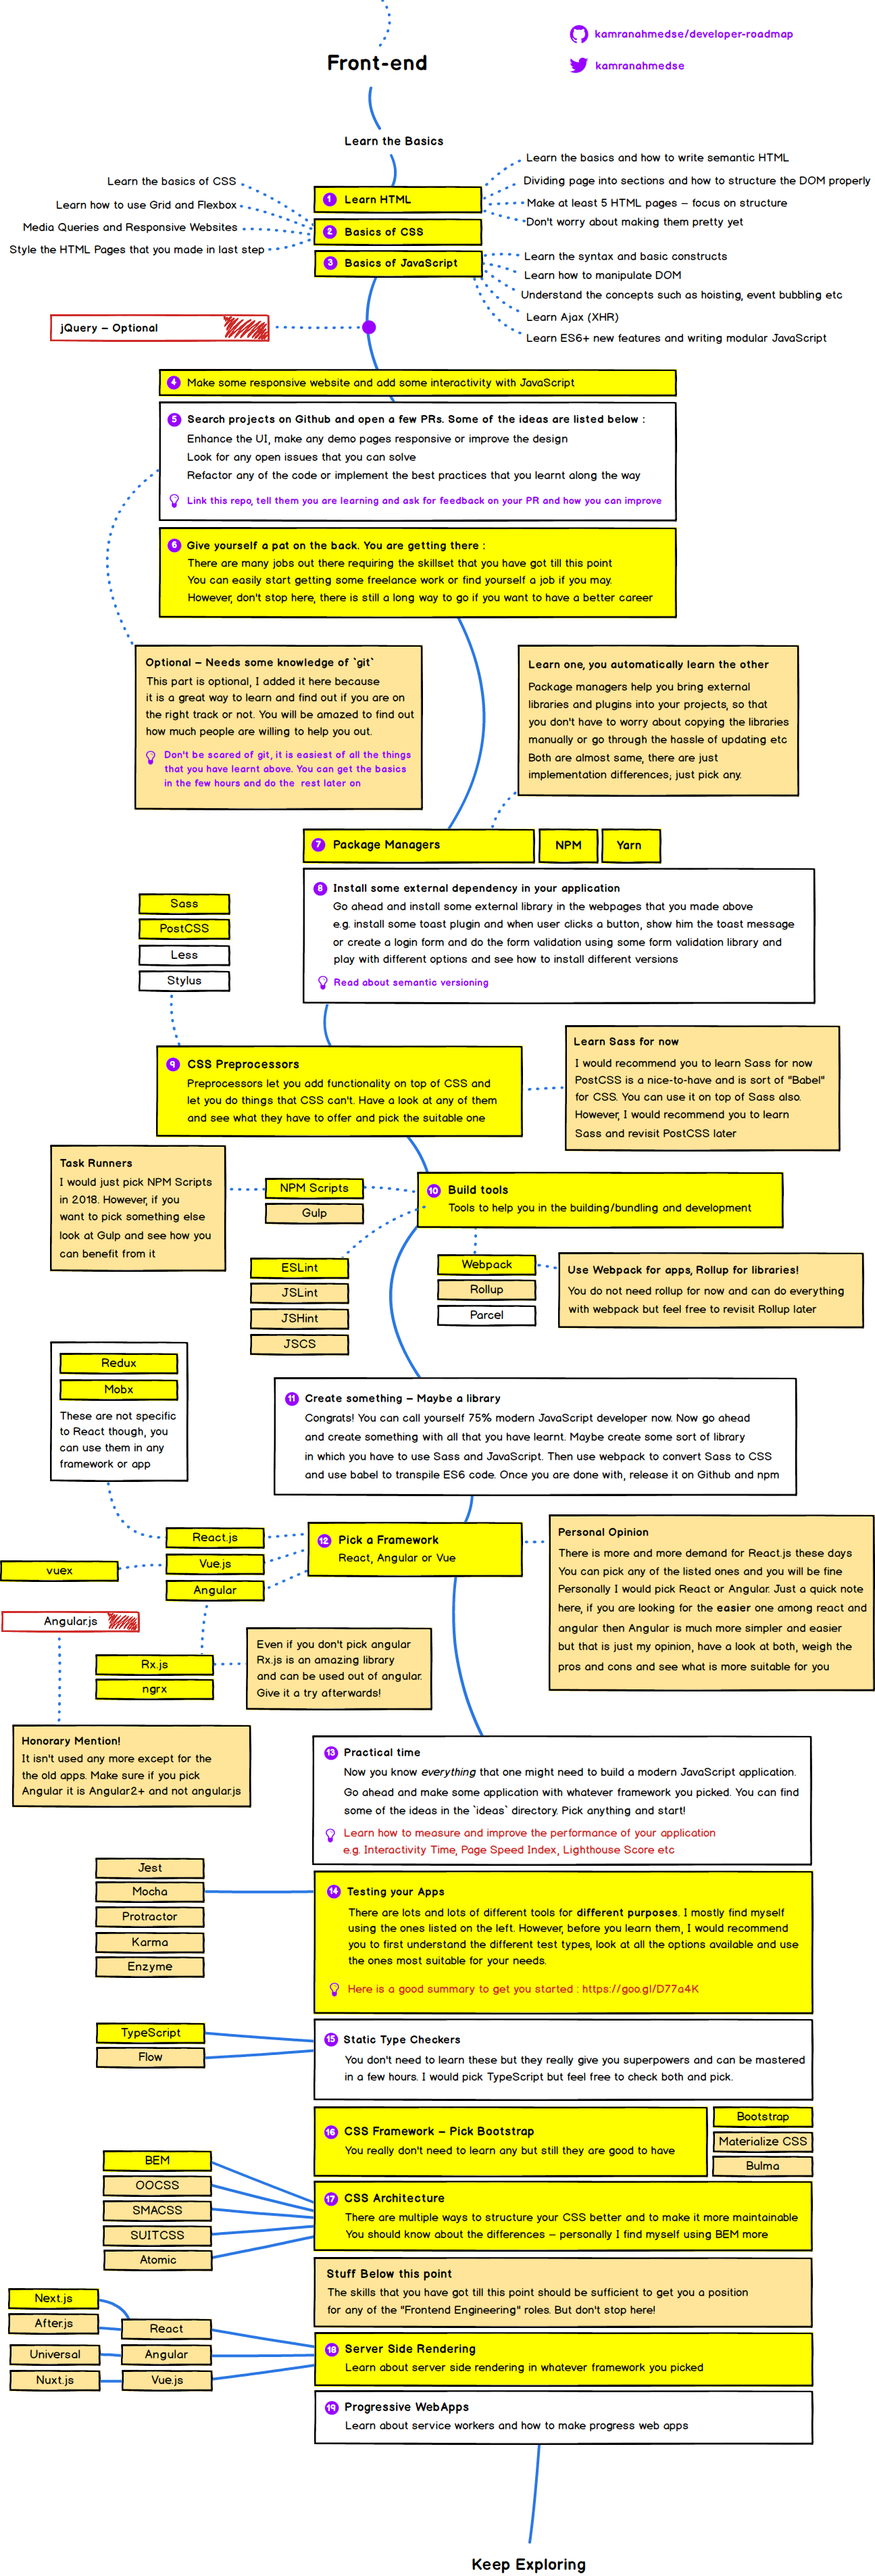
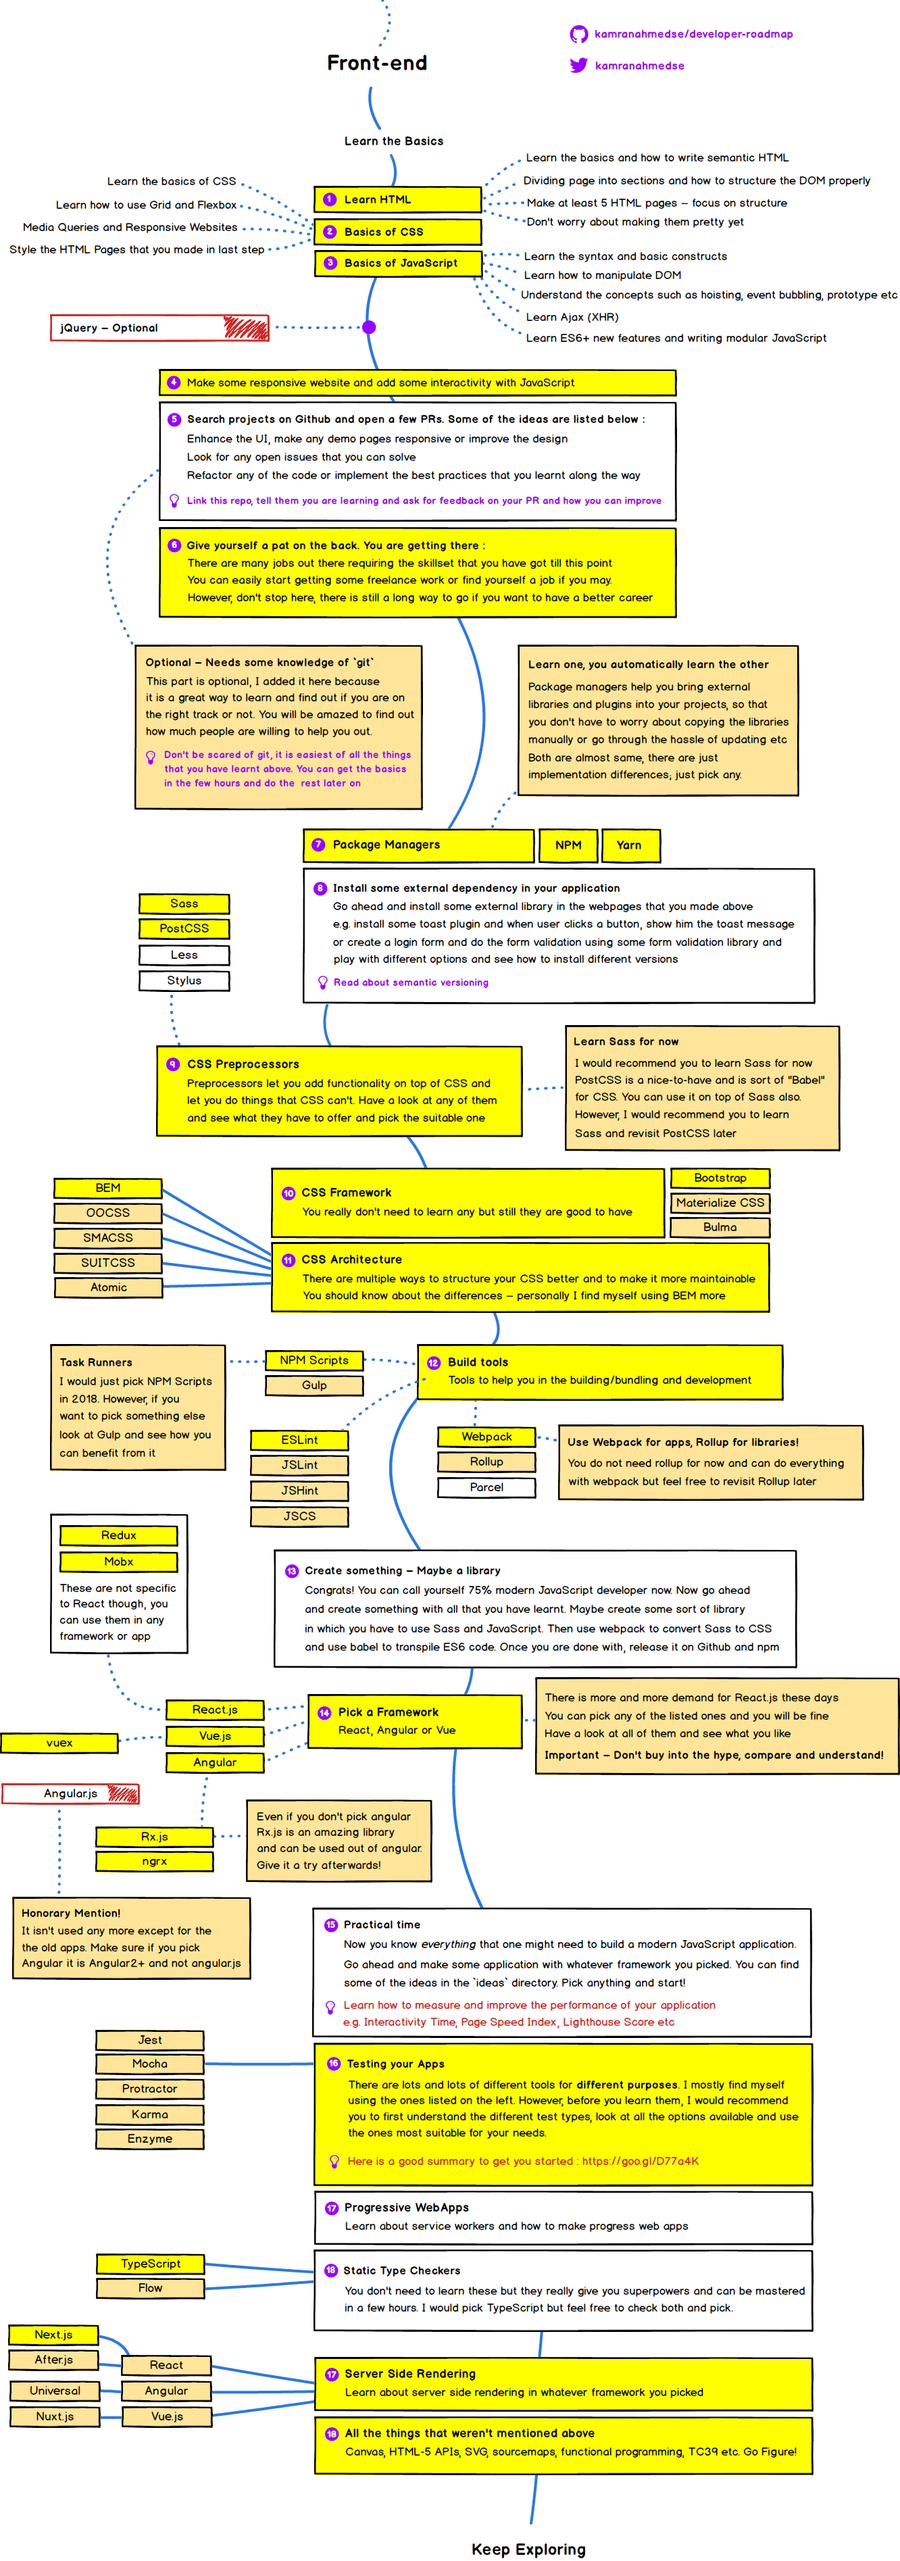
Update roadmaps

diff --git a/frontend.md b/frontend.md
@@ -62,7 +62,25 @@ Preprocessors enrich CSS with the functionality that it isn’t capable of by de
   - [ ] **PostCSS (do this later)**
   - [ ] Stylus
 
-## Step 6 – Learn the Build tools
+## Step 6 – Learn any CSS Framework
+
+This used to be way up in the chart, but I moved it down below as they aren't really needed any more and can be mastered without much effort. If you would want to pick any, there is one under every rock. The ones that I liked the most among the ones that I tried are Bootstrap, Materialize and Bulma. But if you look at their demand in market I would pick Bootstrap if I was starting today.
+
+- [ ] **Bootstrap (Recommended)**
+- [ ] Materialize CSS
+- [ ] Bulma
+
+## Step 7 – Learn how to organize CSS
+
+As your applications grow, CSS start to become messy and unmaintainable. There are multiple ways to structure your CSS better for scalability
+
+- [ ] **BEM – Recommended**
+- [ ] OOCSS
+- [ ] SMACSS
+- [ ] SUITCSS
+- [ ] Atomic
+
+## Step 8 – Learn the Build tools
 
 These are the tools that help you in bundling, building and development of your frontend applications
 
@@ -84,7 +102,7 @@ There are several linters, but I would go for ESLint. Feel free to have a look a
 - [ ] Rollup
 - [ ] Parcel
 
-## Step 7 – Create something – Maybe a library
+## Step 9 – Create something – Maybe a library
 
 Go to Github and Have a look at the source code of libraries that people have made, pick an idea and make some library with the below listed requirements
 
@@ -93,7 +111,7 @@ Go to Github and Have a look at the source code of libraries that people have ma
 - [ ] It should be a UMD library
 - [ ] It should be using Babel to allow usage in older browsers
 
-## Step 8 – Learn any Framework
+## Step 10 – Learn any Framework
 
 There are several options, when it comes to frameworks. However, below listed frameworks are the ones that I would recommend. You can pick any of them, however if you ask me for the personal picks I would choose React or Angular. However, have a look at any of them and see what you like
 
@@ -106,15 +124,15 @@ There are several options, when it comes to frameworks. However, below listed fr
 - [ ] Vue.js
   - [ ] Vuex - Similar to redux but for Vue 
 
-## Step 9 – Practical Time
+## Step 11 – Practical Time
 
 Now you know *everything* that one might need to build a modern JavaScript application. Go ahead and make some application with whatever framework you picked. You can find some of the ideas in the `ideas` directory in the repository; pick anything and start!
 
-## Step 10 – Learn about Performance
+## Step 12 – Learn about Performance
 
 Once you are done making the application from Step 9, read about how to **measure and improve performance**. For example look at **Interactivity Time**, **Page Speed Index**, and **Lighthouse Score** etc.
 
-## Step 11 – Testing your Apps
+## Step 13 – Testing your Apps
 
 There are lots and lots of different tools for different purposes. I mostly find myself using a combination of Jest, Mocha, Karma and Enzyme. However, before you jump and pick any, it would be better if you **first understand the different testing types**, look at all the options available and use the ones most suitable for your needs.
 
@@ -126,32 +144,18 @@ Here is a really nice summary to get you started – [An Overview of JavaScript 
 - [ ] **Karma**
 - [ ] **Enzyme**
 
-## Step 12 – Static Type Checkers
+## Step 14 – Progressive Webapps
+
+Learn about Service Workers and how to make Progressive Webapps
+
+## Step 15 – Static Type Checkers
 
 Static type checkers help you to add type checking to JavaScript. You don’t need to learn these but they really give you superpowers and can be learnt in a few hours and then you can keep . There is mainly TypeScript and Flow. I love TypeScript and would pick it but feel free to check both and pick one of your liking.
 
 - [ ] **TypeScript (Recommended)**
 - [ ] Flow
 
-## Step 13 – Learn any CSS Framework
-
-This used to be way up in the chart, but I moved it down below as they aren't really needed any more and can be mastered without much effort. If you would want to pick any, there is one under every rock. The ones that I liked the most among the ones that I tried are Bootstrap, Materialize and Bulma. But if you look at their demand in market I would pick Bootstrap if I was starting today.
-
-- [ ] **Bootstrap (Recommended)**
-- [ ] Materialize CSS
-- [ ] Bulma
-
-## Step 14 – Learn how to organize CSS
-
-As your applications grow, CSS start to become messy and unmaintainable. There are multiple ways to structure your CSS better for scalability
-
-- [ ] **BEM – Recommended**
-- [ ] OOCSS
-- [ ] SMACSS
-- [ ] SUITCSS
-- [ ] Atomic
-
-## Step 15 – Learn about Server Side Rendering
+## Step 16 – Learn about Server Side Rendering
 
 There are different options, depending on what framework you are using
 
@@ -163,9 +167,9 @@ There are different options, depending on what framework you are using
 - [ ] Vue.js
   - [ ] Nuxt.js
 
-## Step 16 – Progressive Webapps
+## Step 17 – All the things not mentioned
 
-Learn about Service Workers and how to make Progressive Webapps
+Canvas, HTML-5 APIs, SVG, sourcemaps, functional programming, TC39, Progressive enhancement, graceful degradation etc. Go Figure!
 
 ## Journey Never Ends
 

diff --git a/readme.md b/readme.md
@@ -20,7 +20,7 @@ If you think that these can be improved in anyway, please do suggest.
 
 ## 🎨 Frontend Roadmap
 
-![](./images/frontend.png)
+![](./images/frontend-v2.png)
 
 ## 👽 Back-end Roadmap
 
